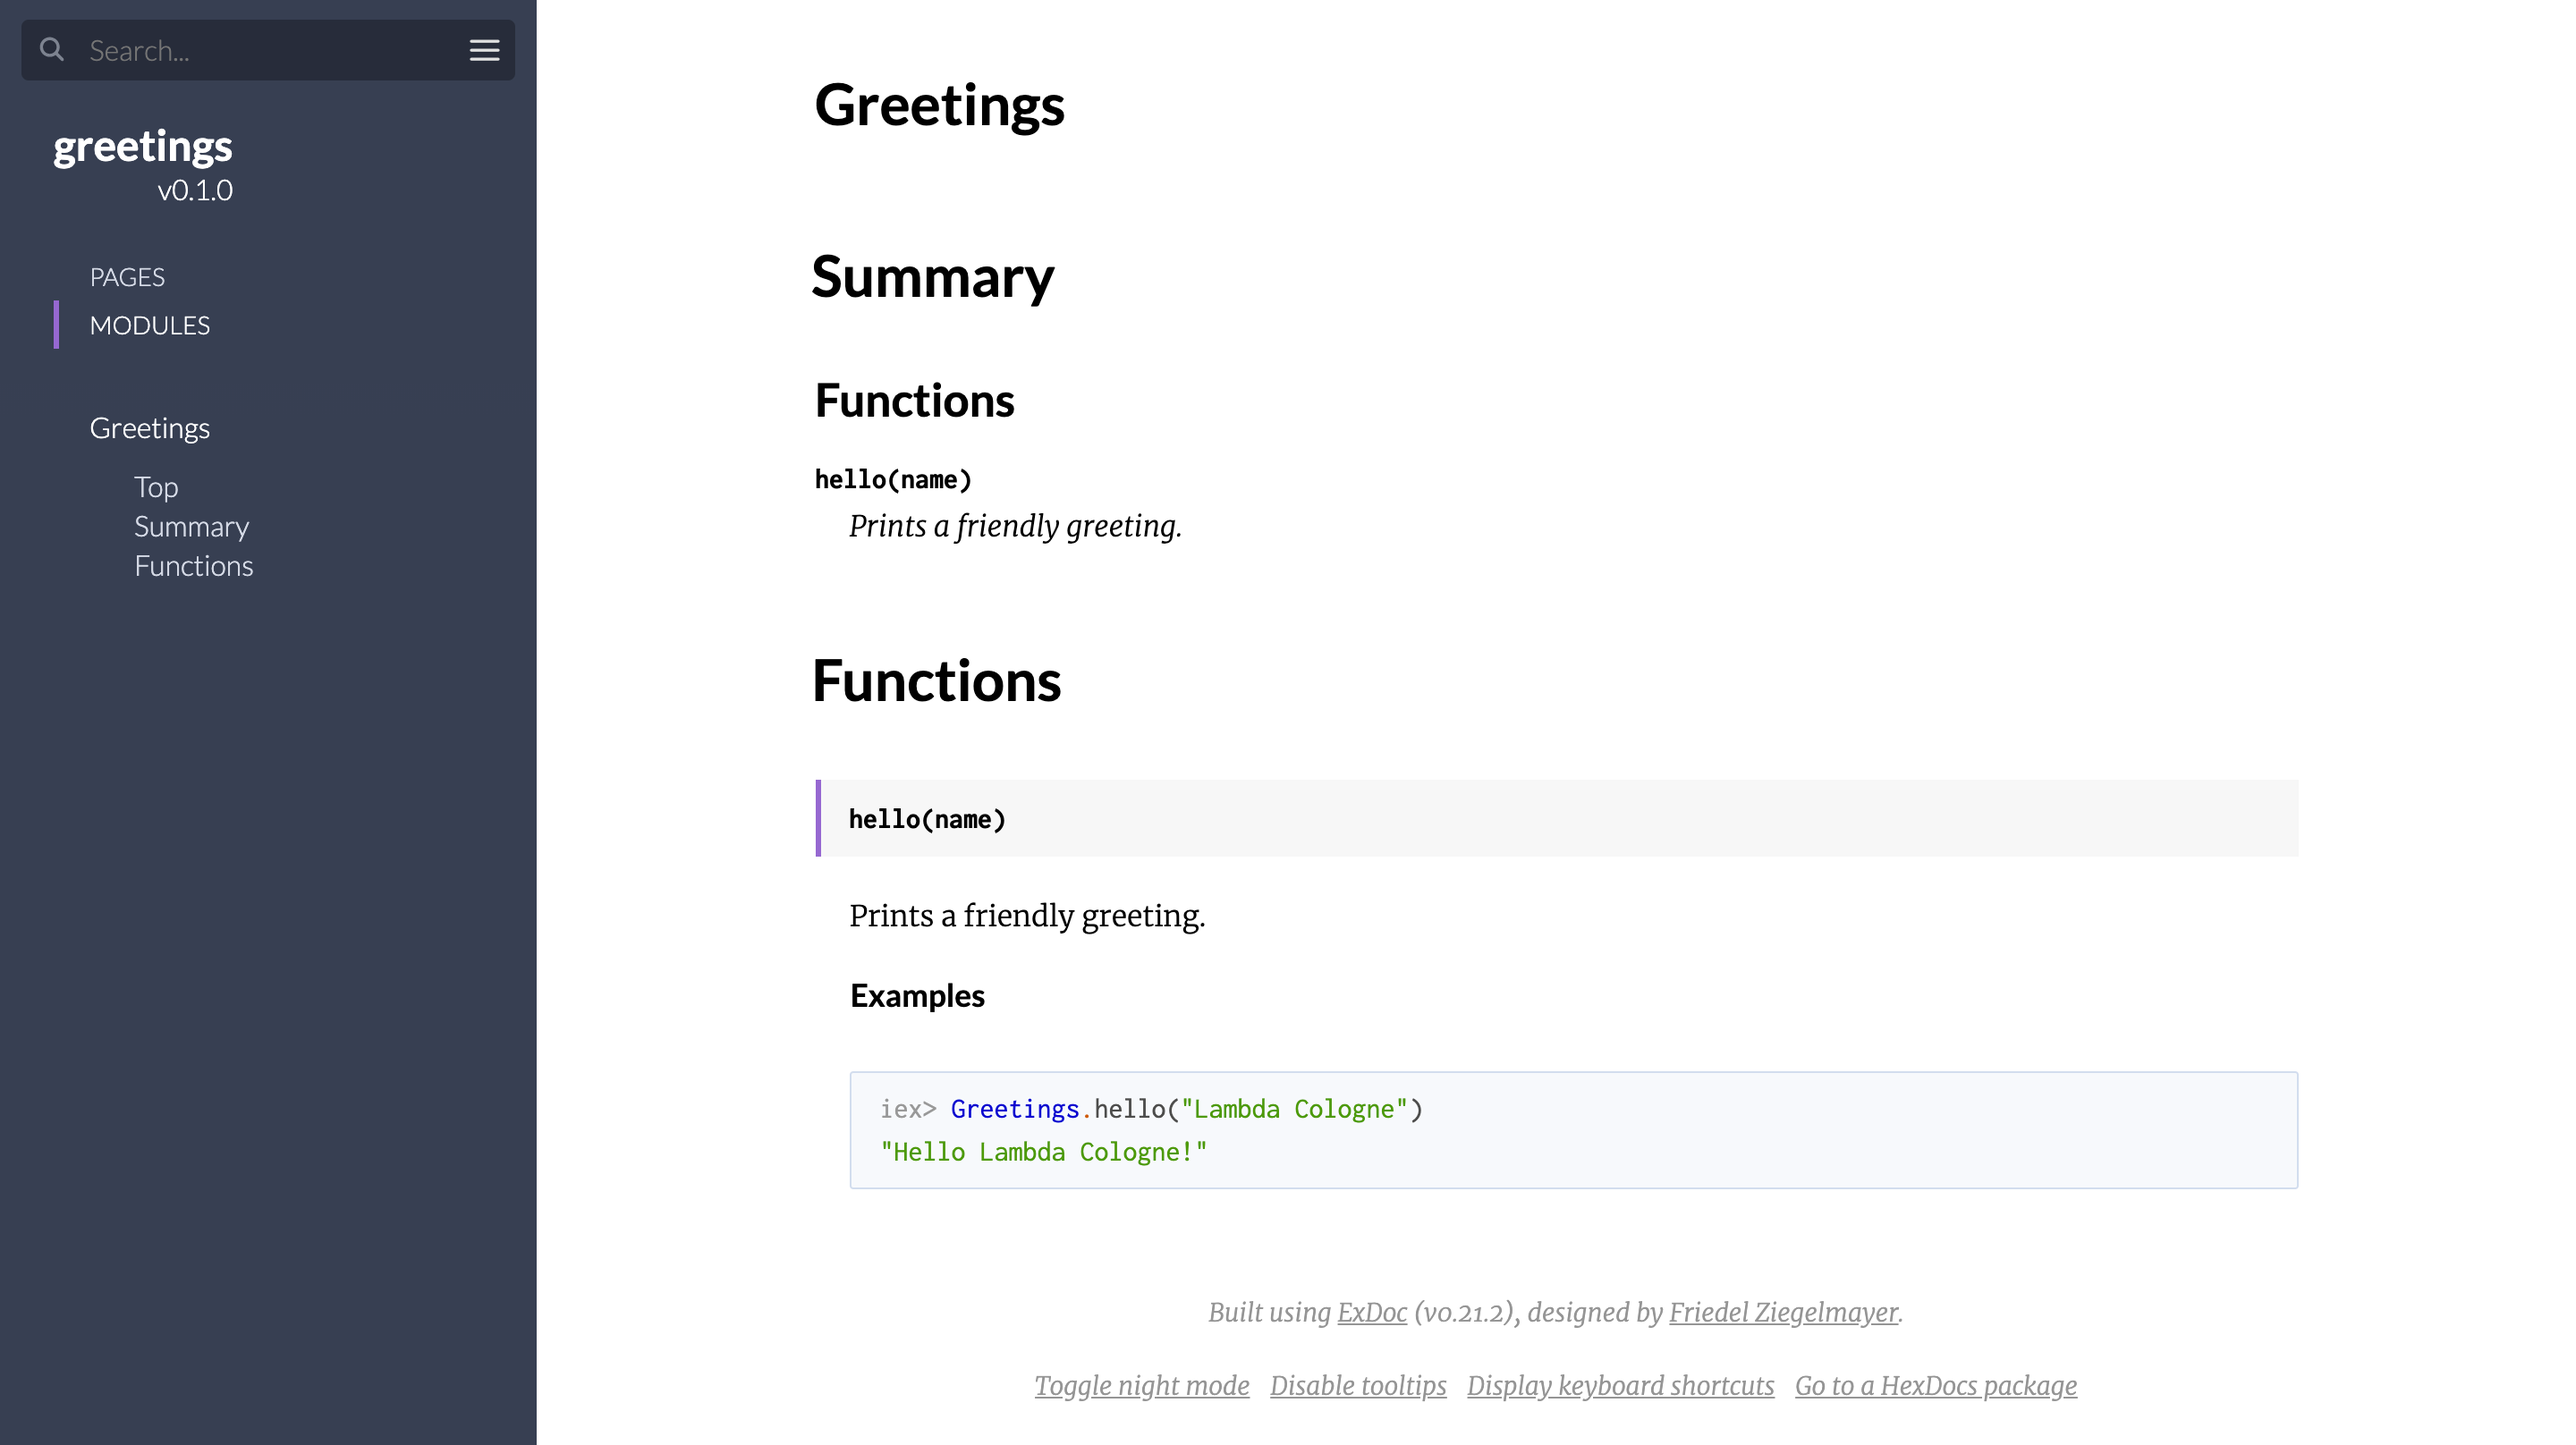
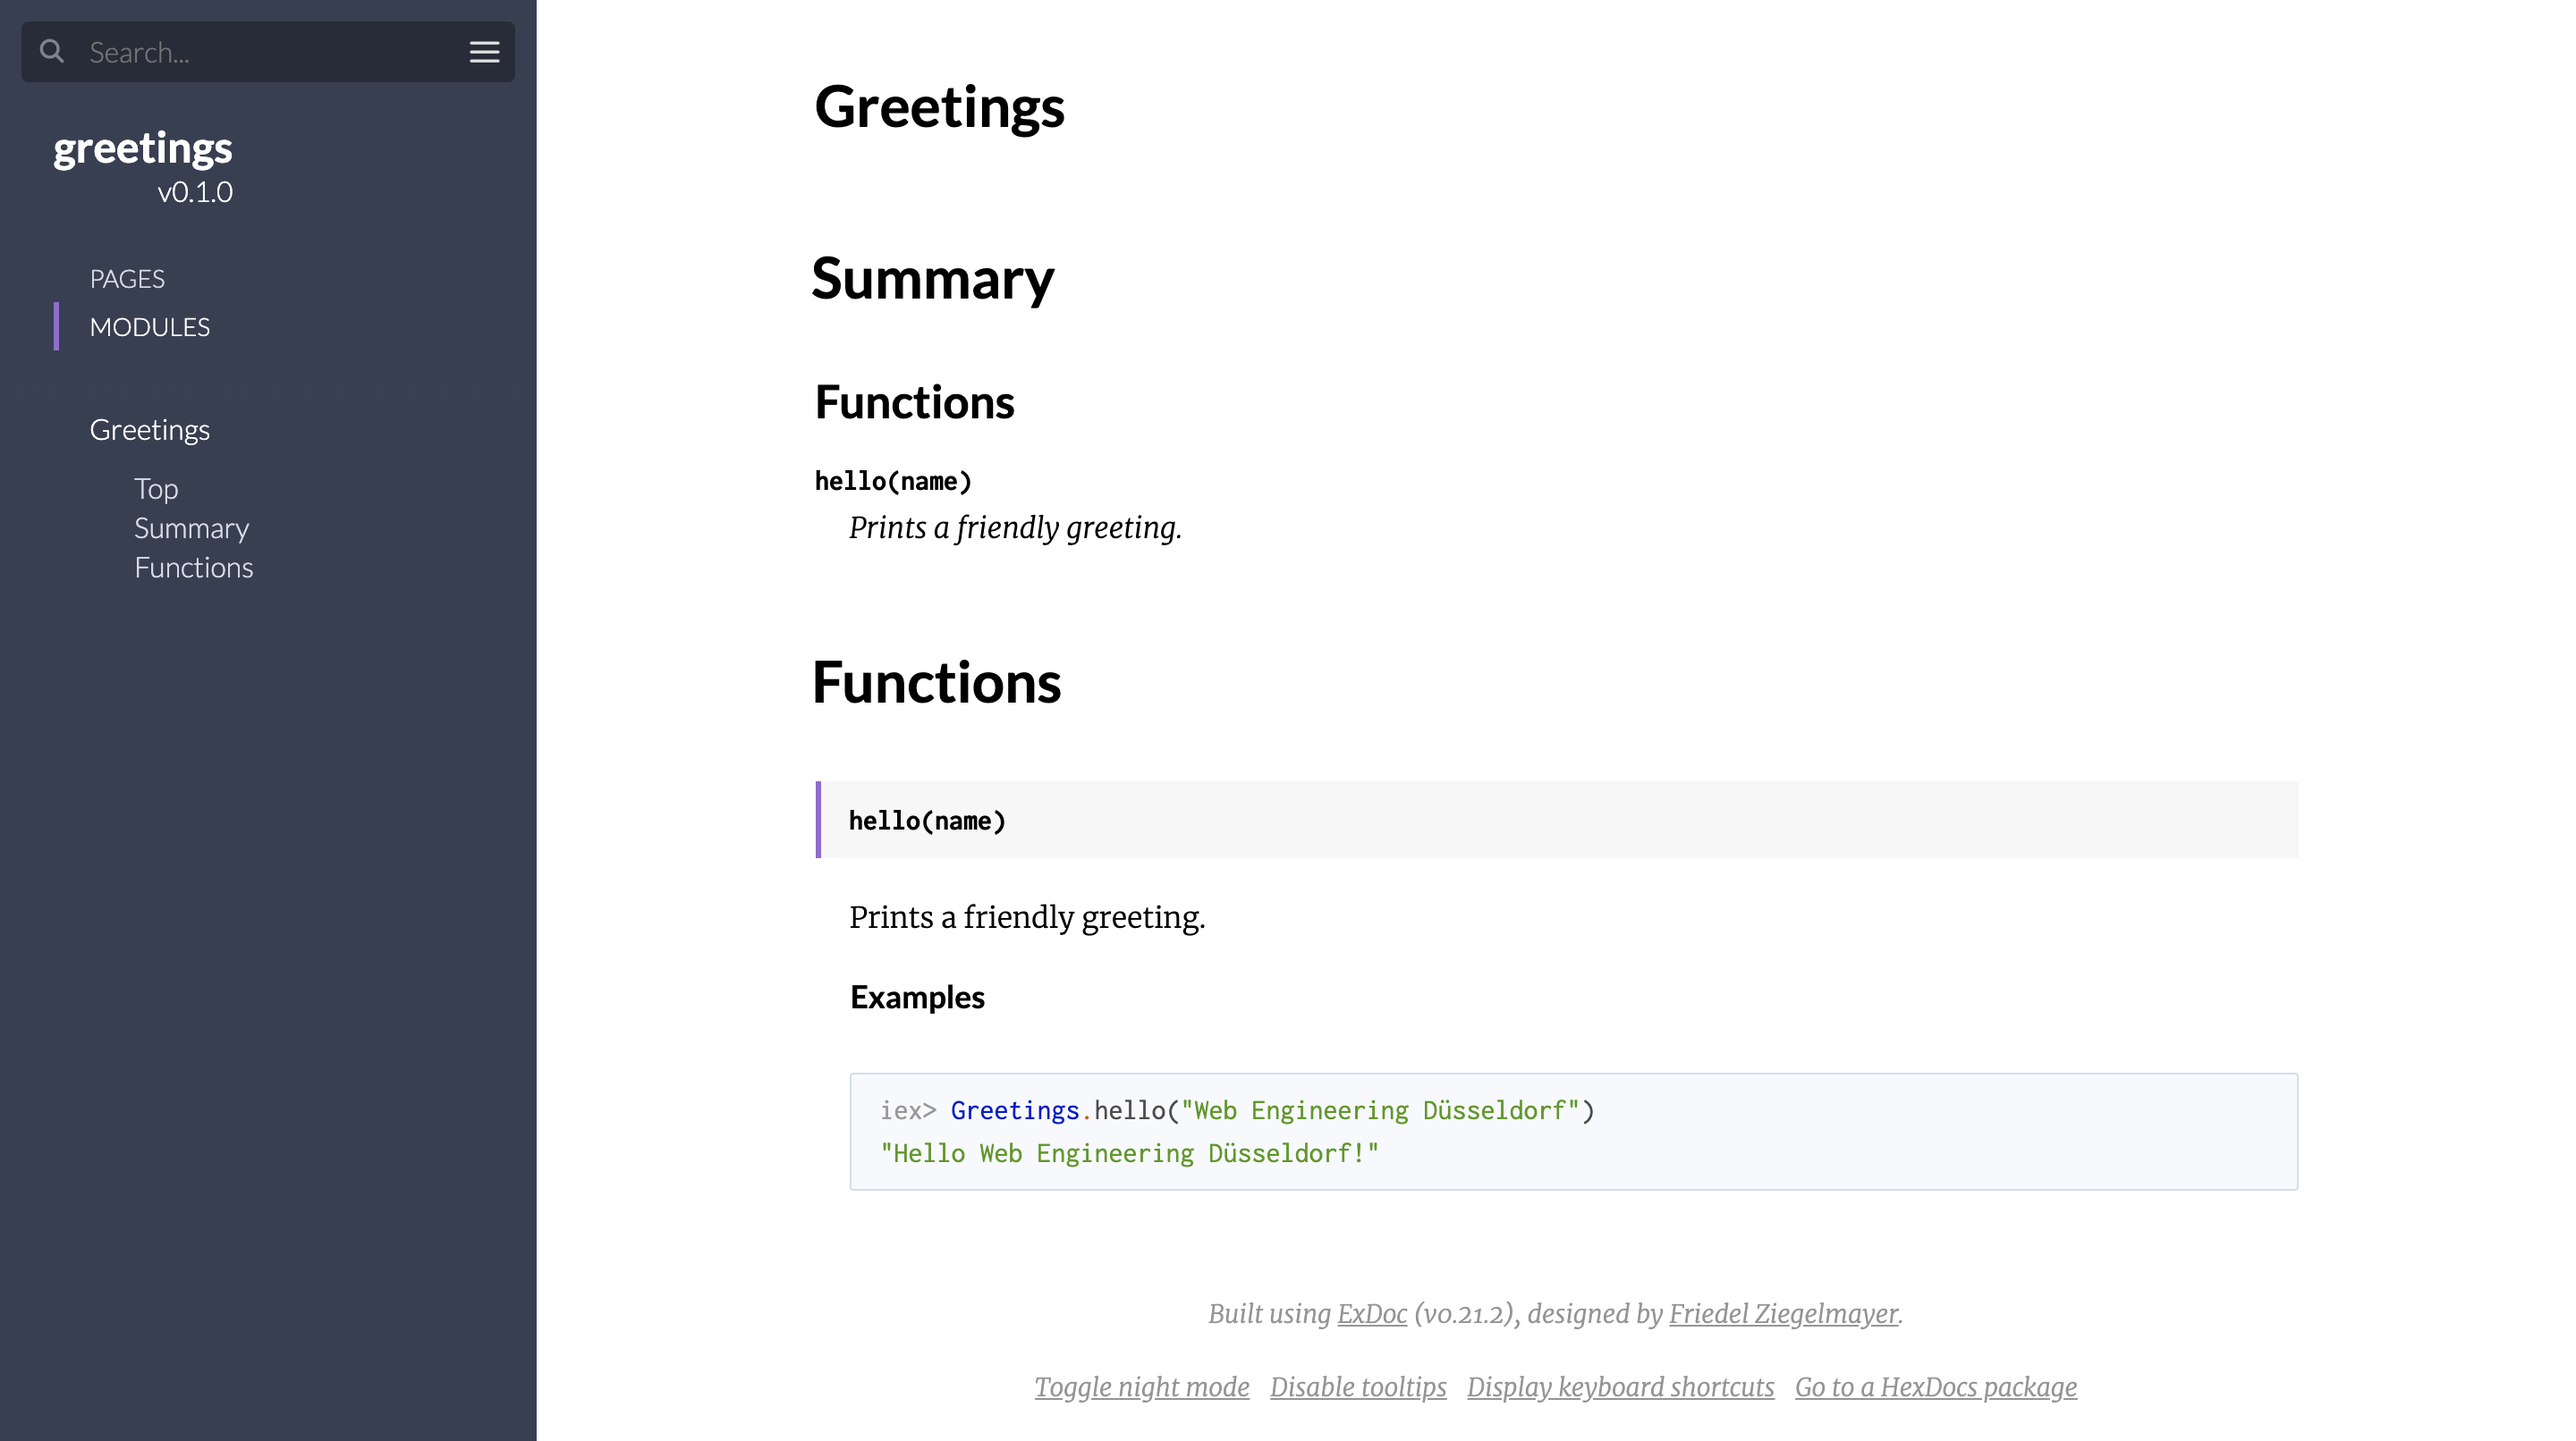
Talk: Update test examples to 'Web Engineering Duesseldorf'

diff --git a/tech/elixir/the-essence-of-elixir/presentation.md b/tech/elixir/the-essence-of-elixir/presentation.md
@@ -444,7 +444,7 @@ Optimizations: pointing to old data (can't change!)
 ---
 ## _Great_ Tooling
 
-- build tool `mix`
+- build tool _`mix`_
 - code formatter
 - unit testing framework
 - first-class documentation
@@ -468,8 +468,8 @@ defmodule GreetingsTest do
   use ExUnit.Case, async: true
 
   test "it greets friendly" do
-    assert Greetings.hello("Lambda Cologne") ==
-             "Hello Lambda Cologne!"
+    assert Greetings.hello("Web Engineering Düsseldorf") ==
+             "Hello Web Engineering Düsseldorf!"
   end
 end
 ```
@@ -517,8 +517,8 @@ defmodule Greetings do
 
   ## Examples
 
-      iex> Greetings.hello("Lambda Cologne")
-      "Hello Lambda Cologne!"
+      iex> Greetings.hello("Web Engineering Düsseldorf")
+      "Hello Web Engineering Düsseldorf!"
   """
   def hello(name) do
     IO.puts("Hello #{name}")
@@ -543,7 +543,13 @@ Neat but not **that** impressive
 ---
 [.hide-footer]
 
-![](images/exdoc.png)
+![fill](images/exdoc.png)
+
+^
+All published packages get their docs automatically generated that way
+
+^
+https://hexdocs.pm/
 
 ---
 ```elixir
@@ -619,10 +625,10 @@ Example: Strings
 
 ---
 ```elixir
-iex> greeting = "Hello Lambda Cologne"
+iex> greeting = "Hello Web Engineering Düsseldorf"
 iex> "Hello " <> name = greeting
 iex> name
-"Lambda Cologne"
+"Web Engineering Düsseldorf"
 ```
 
 ^
@@ -642,8 +648,8 @@ What happens when it can't match?
 
 ---
 ```elixir
-iex> "Hello " <> name = "Salut Lambda Cologne"
-** (MatchError) no match of right hand side value: "Salut Lambda Cologne"
+iex> "Hello " <> name = "Salut Web Engineering Düsseldorf"
+** (MatchError) no match of right hand side value: "Salut Web Engineering Düsseldorf"
     (stdlib) erl_eval.erl:453: :erl_eval.expr/5
     (iex) lib/iex/evaluator.ex:257: IEx.Evaluator.handle_eval/5
     (iex) lib/iex/evaluator.ex:237: IEx.Evaluator.do_eval/3
